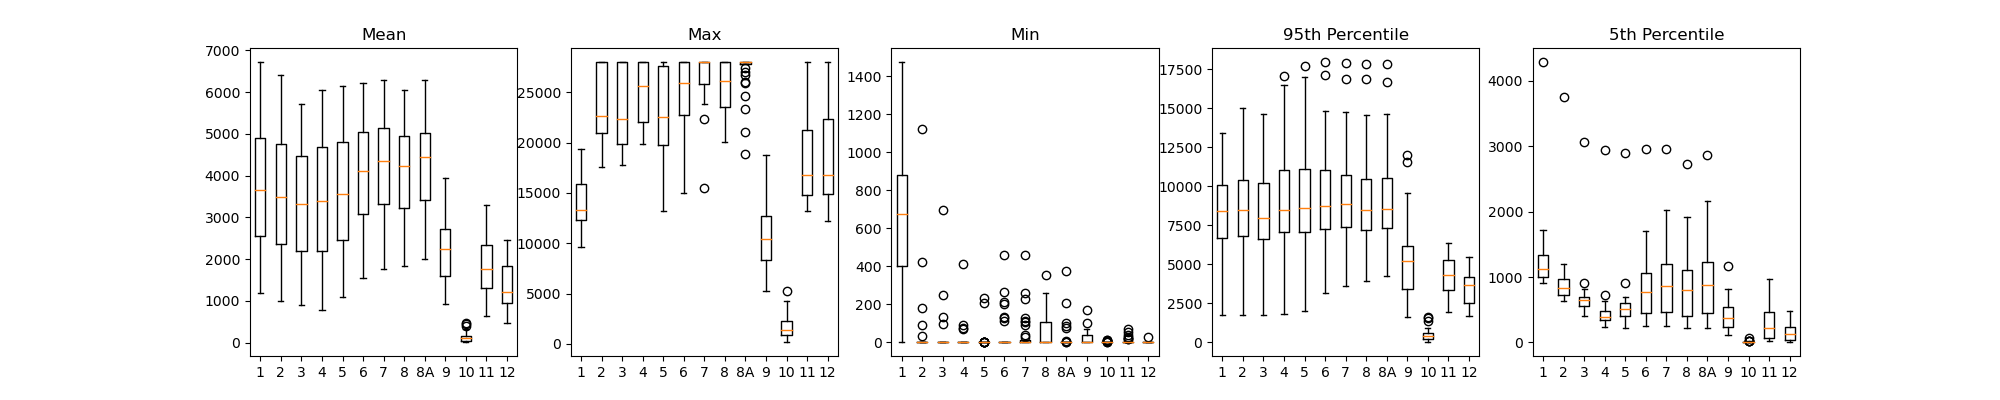
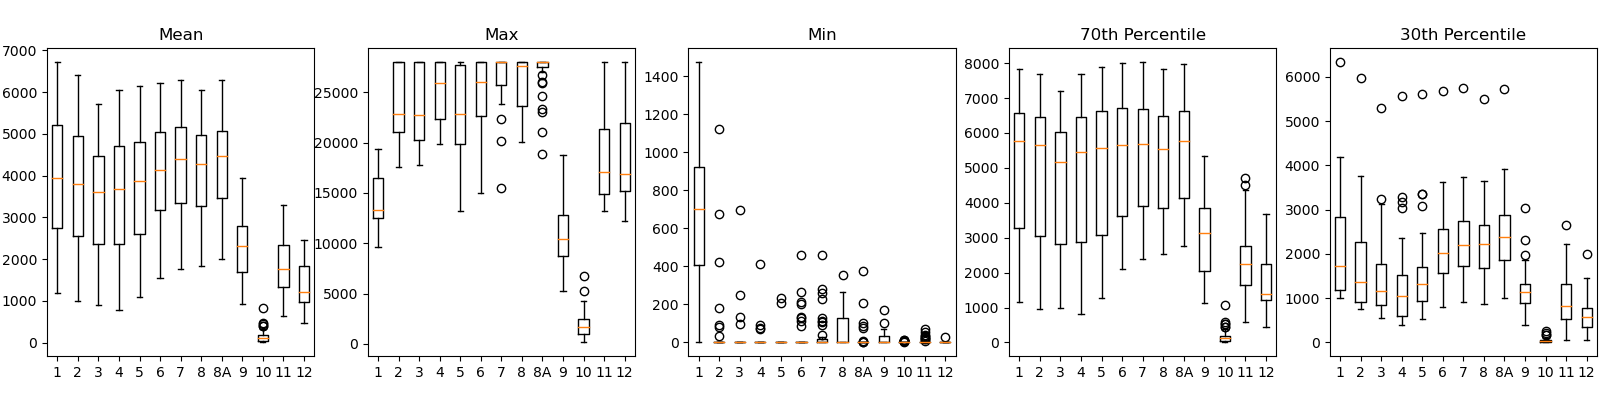
improve summary_stats_plotter

diff --git a/helper-scripts/summery_stats_plotter.py b/helper-scripts/summery_stats_plotter.py
@@ -25,7 +25,7 @@ def main():
 
         print(f"Reading in {filename}...")
 
-        if filename.endswith('.json'):
+        if filename.endswith('.json') and '_' not in filename:
             filepath = os.path.join(base_dir, filename)
 
             json_data = read_json_file(filepath)
@@ -108,22 +108,22 @@ def main():
     print()
 
     # create a boxplot for each band
-    fig, axs = plt.subplots(1, 5, figsize=(20, 4))
+    fig, axs = plt.subplots(2, 3, figsize=(20, 10))
 
-    axs[0].set_title("Mean")
-    axs[0].boxplot(bands_means.values(), labels=bands_means.keys())
+    axs[0][0].set_title("Mean")
+    axs[0][0].boxplot(bands_means.values(), labels=bands_means.keys())
 
-    axs[1].set_title("Max")
-    axs[1].boxplot(bands_maxs.values(), labels=bands_maxs.keys())
+    axs[0][1].set_title("Max")
+    axs[0][1].boxplot(bands_maxs.values(), labels=bands_maxs.keys())
 
-    axs[2].set_title("Min")
-    axs[2].boxplot(bands_mins.values(), labels=bands_mins.keys())
+    axs[0][2].set_title("Min")
+    axs[0][2].boxplot(bands_mins.values(), labels=bands_mins.keys())
 
-    axs[3].set_title("95th Percentile")
-    axs[3].boxplot(percentile_95s.values(), labels=percentile_95s.keys())
+    axs[1][0].set_title("70th Percentile")
+    axs[1][0].boxplot(percentile_70s.values(), labels=percentile_95s.keys())
 
-    axs[4].set_title("5th Percentile")
-    axs[4].boxplot(percentile_5s.values(), labels=percentile_5s.keys())
+    axs[1][1].set_title("30th Percentile")
+    axs[1][1].boxplot(percentile_30s.values(), labels=percentile_5s.keys())
 
     # save the figure
     plt.savefig("boxplot.png")
